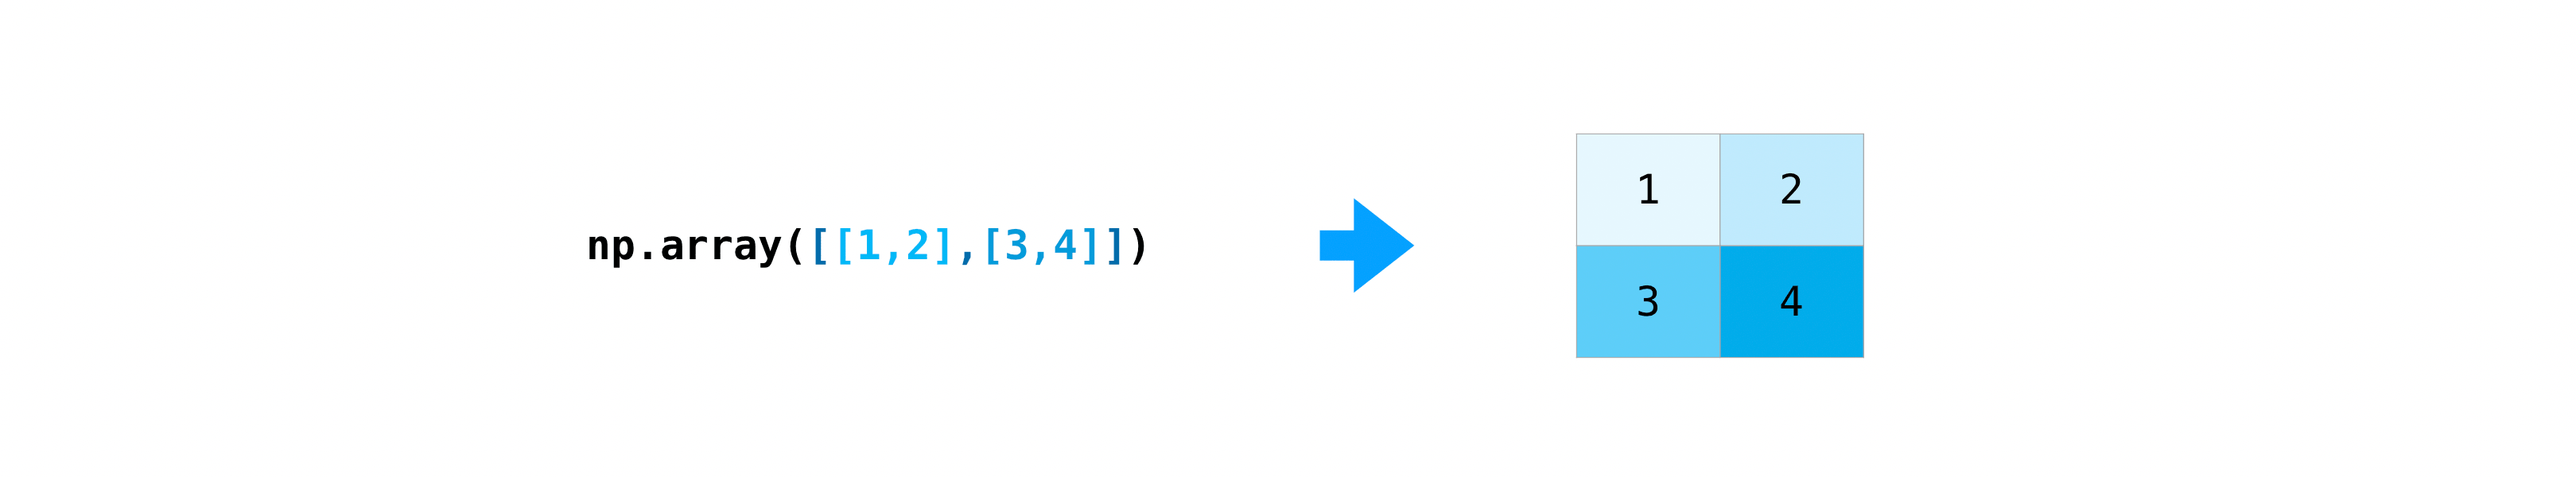
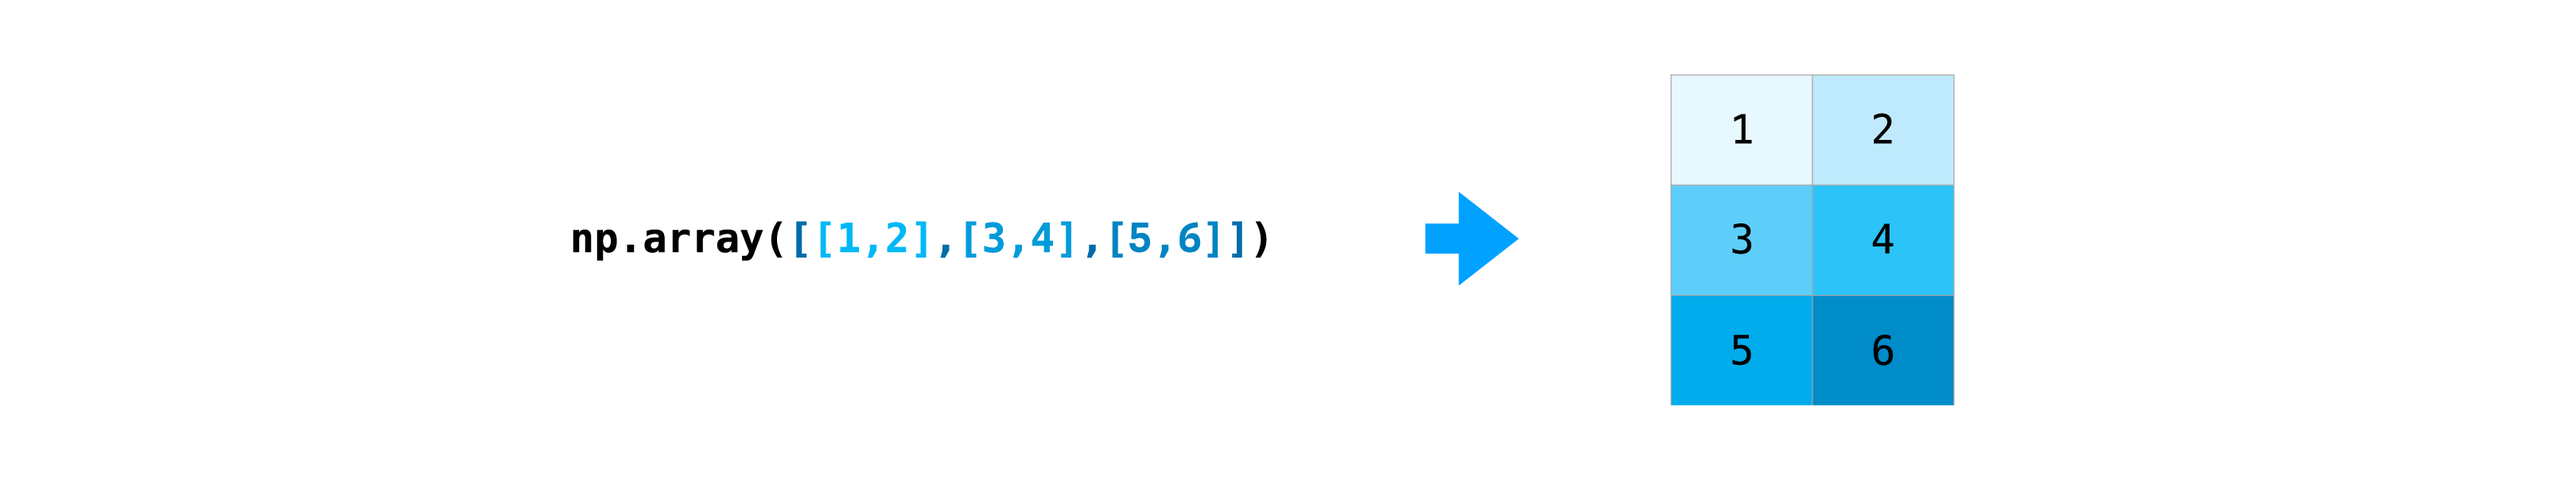
Changed matrix size in absolute beginners doc.

Changed region(s): [[0.2183, 0.15, 0.7796, 0.87]]

diff --git a/doc/source/user/absolute_beginners.rst b/doc/source/user/absolute_beginners.rst
@@ -871,10 +871,11 @@ Creating matrices
 You can pass Python lists of lists to create a 2-D array (or "matrix") to
 represent them in NumPy. ::
 
-  >>> data = np.array([[1, 2], [3, 4]])
+  >>> data = np.array([[1, 2], [3, 4], [5, 6]])
   >>> data
   array([[1, 2],
-         [3, 4]])
+         [3, 4],
+         [5, 6]])
 
 .. image:: images/np_create_matrix.png
 
